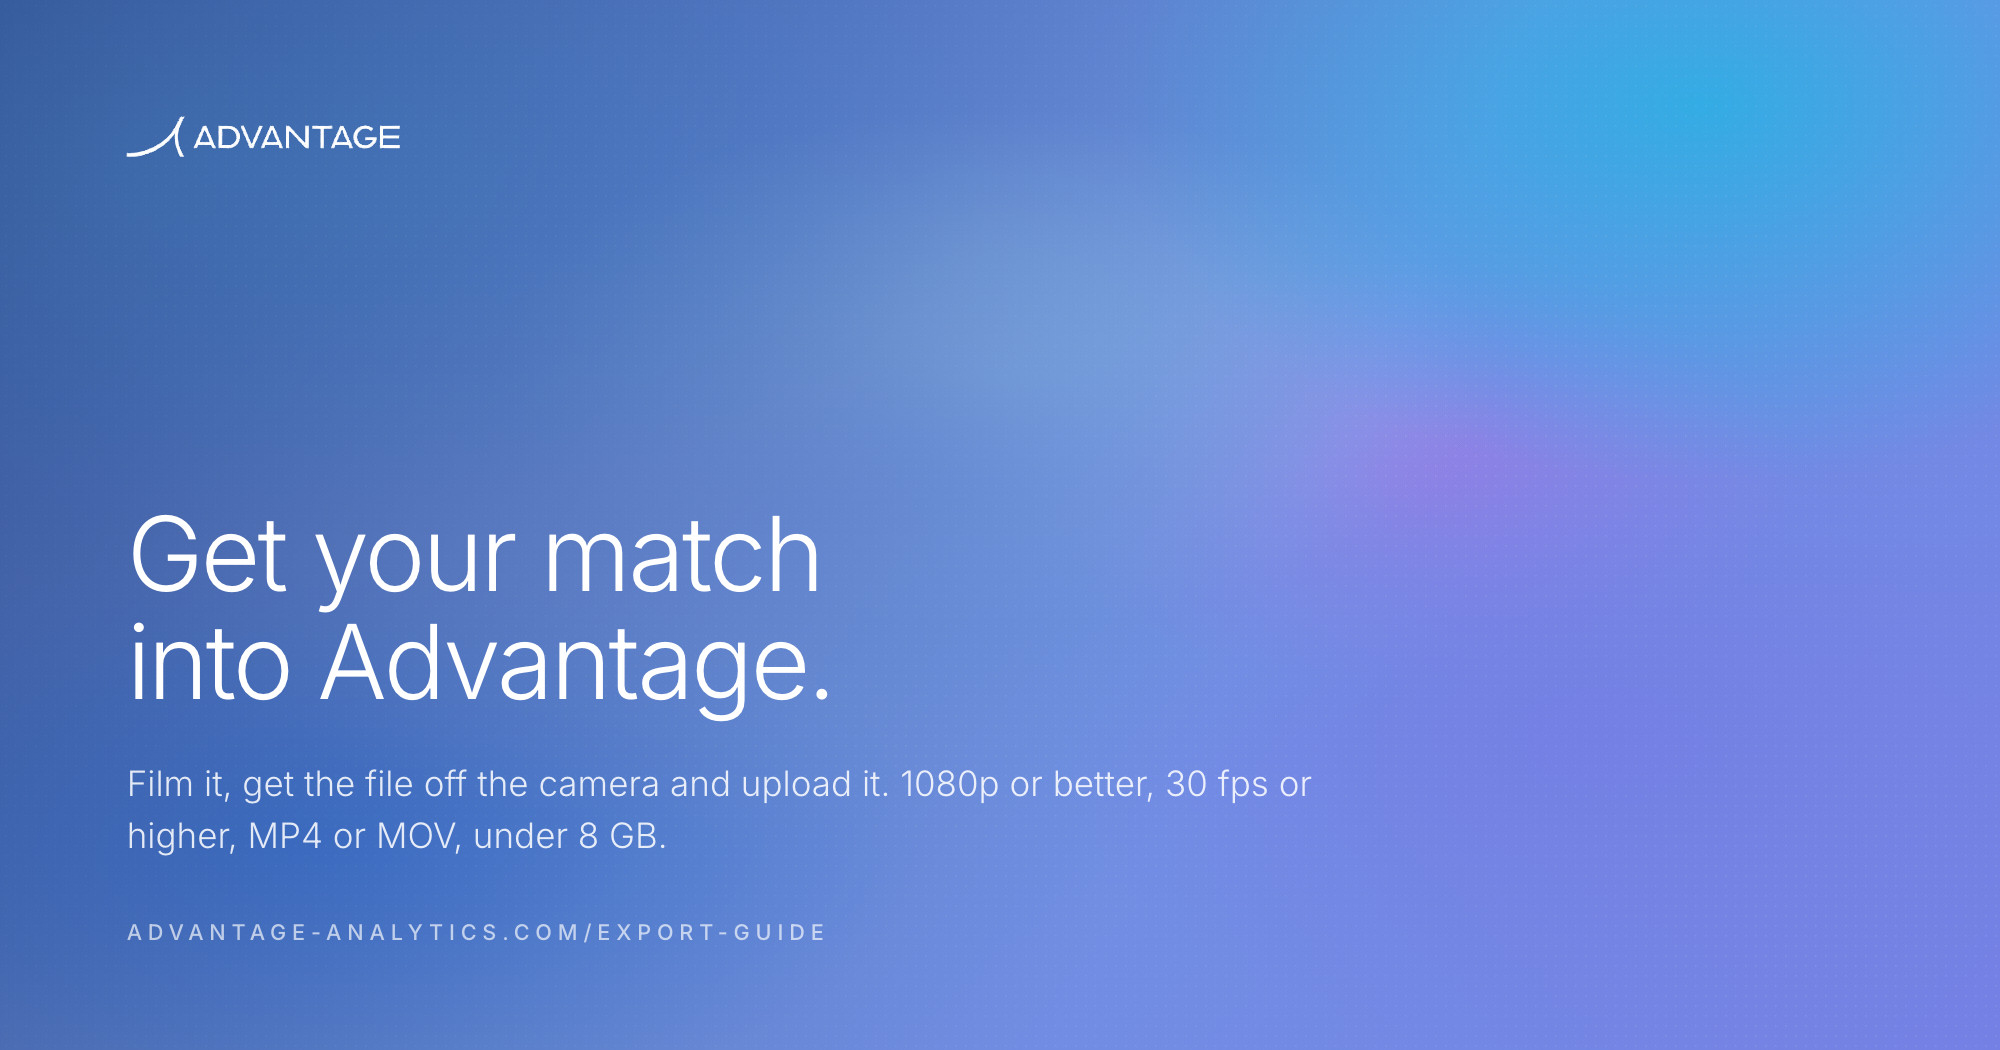
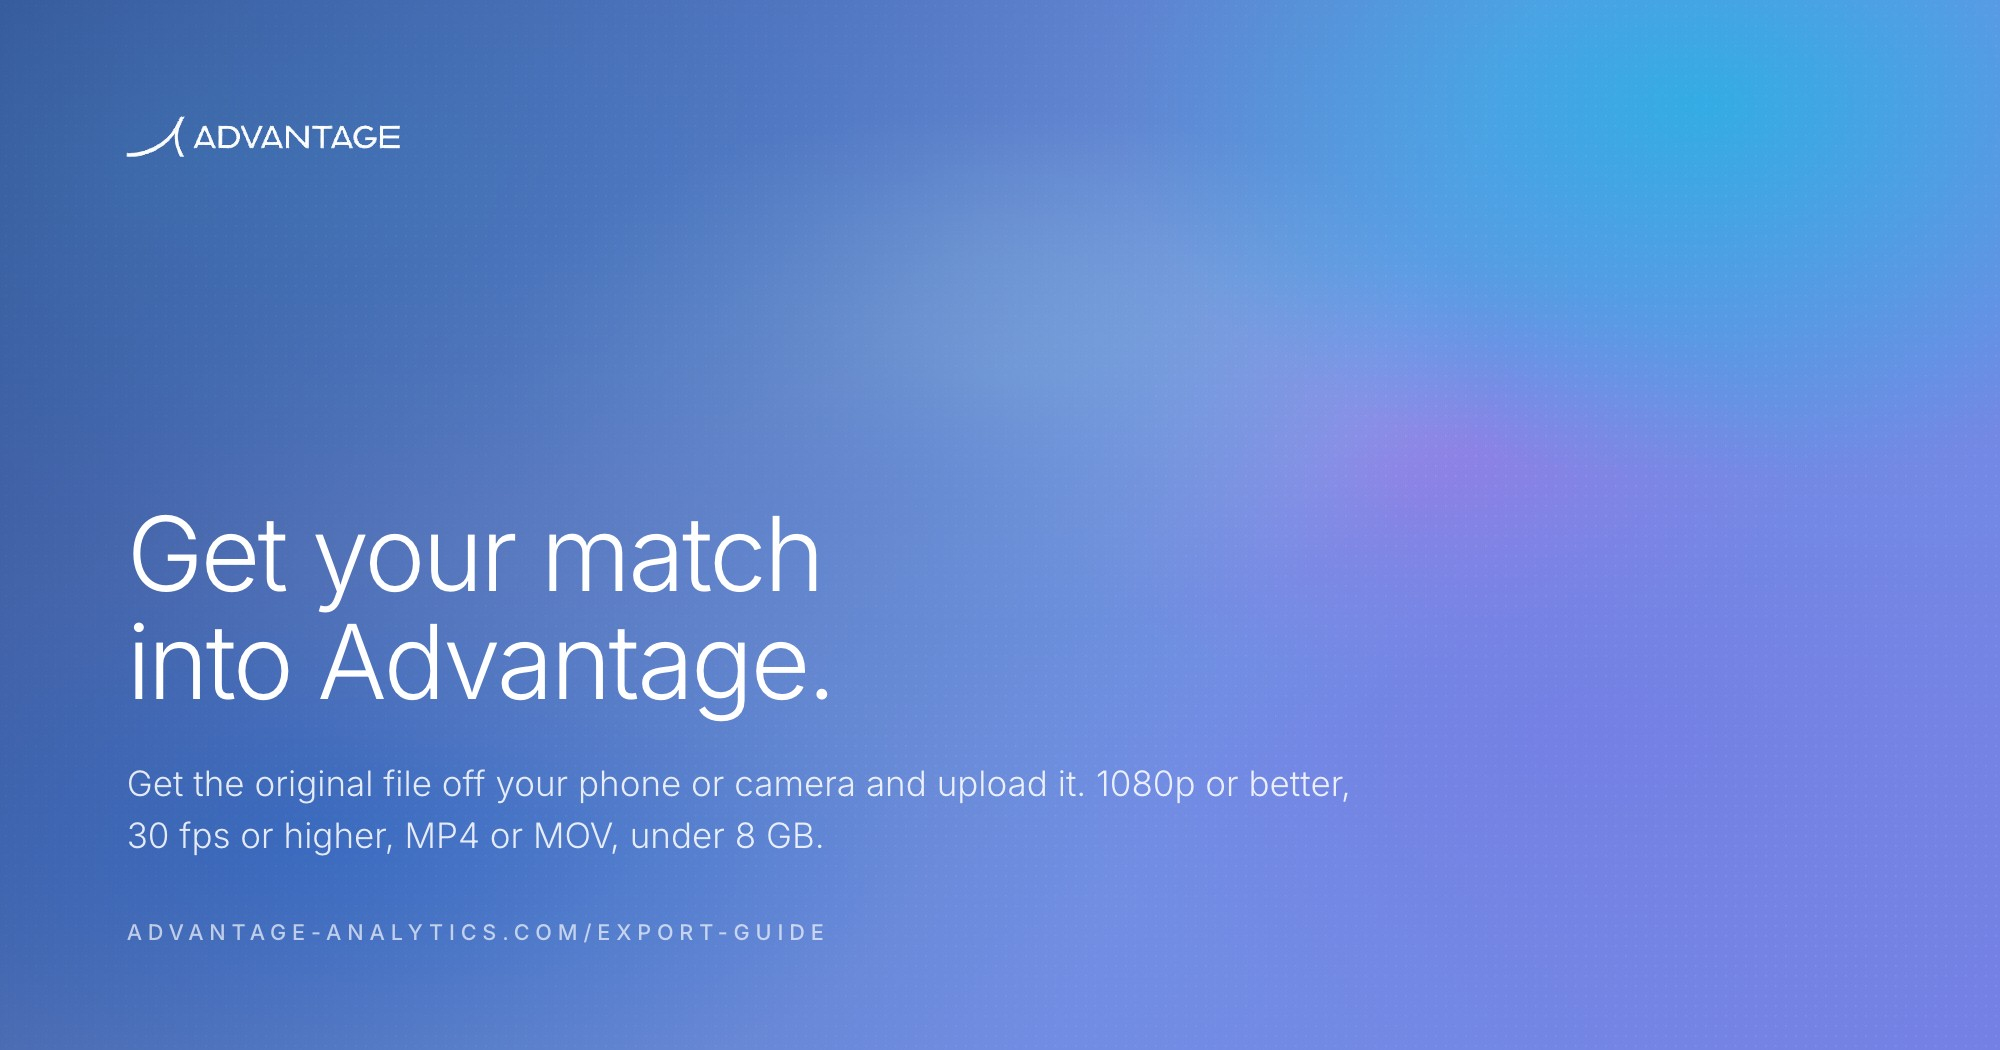
Give the recording guide and tennis analytics their own link preview cards
The export guide's card still said "Film it, get the file off the camera and
upload it", but filming moved to /recording-guide. Its card now covers only
getting the original file off the device and uploading it, with the same
figures from match-video.ts.

/recording-guide and /tennis-analytics showed the home card under their own
title and description. Each gets its own opengraph-image.jpg and .alt.txt
in the same style as the other cards, and passes ownCard to pageMetadata.
The layout comment that lists routes with their own card, and the
match-video note on which cards carry its figures, are updated to match.

Changed region(s): [[0.062, 0.7314, 0.682, 0.8229]]

diff --git a/src/app/layout.tsx b/src/app/layout.tsx
@@ -40,10 +40,11 @@ export const metadata: Metadata = {
   //   src/app/icon.png            -> <link rel="icon">
   //   src/app/apple-icon.png      -> <link rel="apple-touch-icon">
   //   src/app/opengraph-image.jpg -> og:image (and the twitter card image)
-  // That image is the site-wide card; /pilot, /export-guide, /mcp and /about
-  // override it with their own opengraph-image.jpg. An older card (the wordmark
-  // on black) is kept in assets/link-previews/, outside src/app and public/ so
-  // it is neither picked up as metadata nor served.
+  // That image is the site-wide card; /pilot, /export-guide, /recording-guide,
+  // /tennis-analytics, /mcp and /about override it with their own
+  // opengraph-image.jpg. An older card (the wordmark on black) is kept in
+  // assets/link-previews/, outside src/app and public/ so it is neither picked
+  // up as metadata nor served.
   // Without the apple-icon, "Add to Home Screen" on iOS falls back to a
   // screenshot of the page instead of the logo: Safari ignores rel="icon"
   // there. The file is a 180x180 opaque square (iOS masks it into its own

diff --git a/src/lib/match-video.ts b/src/lib/match-video.ts
@@ -5,9 +5,10 @@
 // export guide and the /send-a-match notice all quote these. The uploader
 // enforces the same limits in the dashboard repo, so when they move there,
 // change them here in the same breath: a stale figure is a coach told their
-// file is fine and then refused. The export guide's link preview card
-// (src/app/export-guide/opengraph-image.jpg with its .alt.txt) has these figures
-// baked into the artwork, so it changes with them.
+// file is fine and then refused. The link preview cards for the export guide
+// and the recording guide (opengraph-image.jpg with its .alt.txt in
+// src/app/export-guide/ and src/app/recording-guide/) have these figures baked
+// into the artwork, so they change with them.
 
 export const VIDEO_MIN_RESOLUTION = "1080p";
 export const VIDEO_MIN_FPS = "30 fps";

diff --git a/src/app/recording-guide/page.tsx b/src/app/recording-guide/page.tsx
@@ -16,6 +16,7 @@ export const metadata = pageMetadata({
   title: "Filming a match for Advantage — Advantage",
   description: `Where to put the camera and how to set it before you film: behind the back fence, raised, one camera that doesn't move, ${VIDEO_MIN_RESOLUTION} or better at ${VIDEO_MIN_FPS} or higher. Settings for iPhone, Android, GoPro, PlaySight and SwingVision.`,
   path: "/recording-guide",
+  ownCard: true,
 });
 
 /* Before the match. Whoever is here is about to film and wants the camera

diff --git a/src/app/tennis-analytics/page.tsx b/src/app/tennis-analytics/page.tsx
@@ -37,7 +37,7 @@ const DESCRIPTION =
 // as the article's dateModified.
 const UPDATED = { iso: "2026-11-04", label: "November 2026" };
 
-export const metadata = pageMetadata({ title: TITLE, description: DESCRIPTION, path: PATH });
+export const metadata = pageMetadata({ title: TITLE, description: DESCRIPTION, path: PATH, ownCard: true });
 
 const SHORT = [
   { k: "What it is", v: "Match statistics and patterns, pulled from the points you actually played." },
